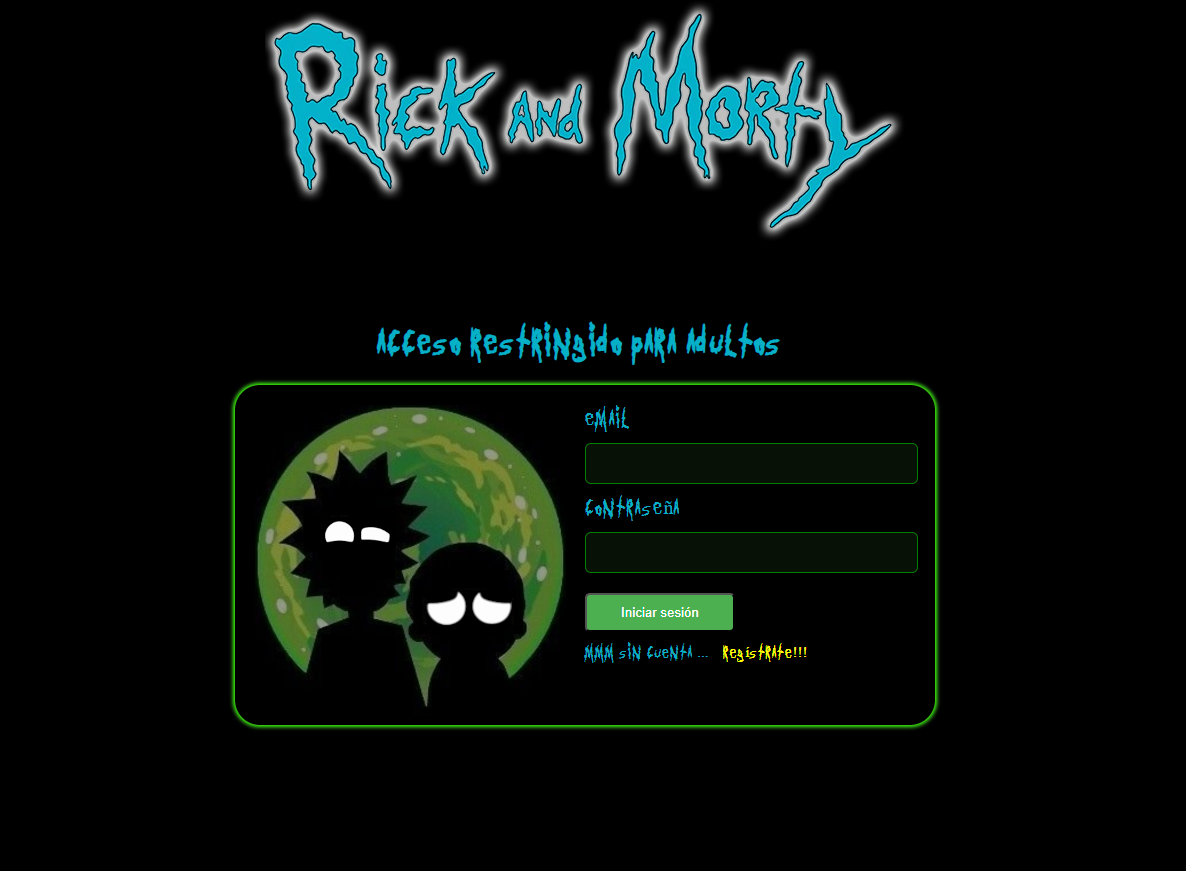
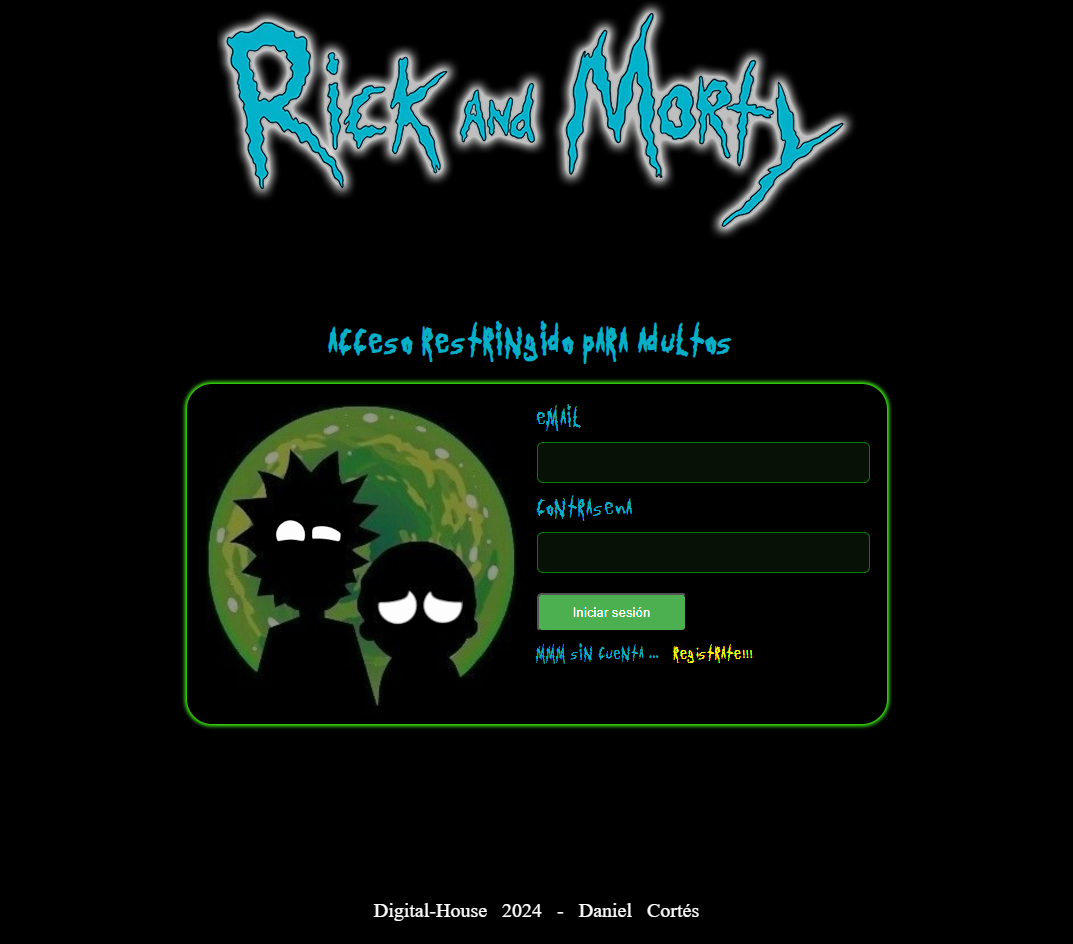
Login was done

diff --git a/src/pages/auth/FormRegister.jsx b/src/pages/auth/FormRegister.jsx
@@ -1,4 +1,4 @@
-import ButtonComponent from '../../components/button/ButtonComponent.jsx'
+import ButtonSubmitComponent from '../../components/button/ButtonComponent.jsx';
 import InputComponent from '../../components/input/InputComponent.jsx'
 import LabelComponent from '../../components/label/LabelComponent.jsx'
 import LabelLinkComponent from '../../components/label/LabelLinkComponent.jsx'
@@ -6,17 +6,24 @@ import {useAuthenticateContext} from "../../context/AuthenticateContext.jsx";
 
 const FormRegister = () => {
 
-  const {onClickLabel, onClickSaveRegister} = useAuthenticateContext();
+  const {onClickLabel, onClickSaveRegister, handleChange} = useAuthenticateContext();
 
   return (
     <div>
-      <form id="login-form">
-        <LabelComponent  label="Nombre" htmlFor="email" />
-        <InputComponent type="email" id="email" name="email" />
+      <form id="login-form" onSubmit={onClickSaveRegister}>
+        <LabelComponent  label="Nombre completo" htmlFor="email" />
+        <InputComponent type="text" id="fullName" name="fullName" onChange={handleChange} />
 
-        <LabelComponent label="Apellido" htmlFor="password" />
-        <InputComponent type="password" id="password" name="password"/>
-        <ButtonComponent label="Salvar" onClick={onClickSaveRegister} />
+        <LabelComponent label="Dirección" htmlFor="address" />
+        <InputComponent type="text" id="address" name="address" onChange={handleChange}/>
+
+        <LabelComponent label="Email" htmlFor="email" />
+        <InputComponent type="email" id="email" name="email" onChange={handleChange}/>
+
+        <LabelComponent label="Contraseña" htmlFor="password" />
+        <InputComponent type="password" id="password" name="password" onChange={handleChange}/>
+
+        <ButtonSubmitComponent label="Salvar" />
 
         <div>
           <LabelComponent label="Ahhhh sí tienes cuenta ... " fontSize="15px" />

diff --git a/src/context/RickAndMortyApiContext.jsx b/src/context/RickAndMortyApiContext.jsx
@@ -1,0 +1,65 @@
+import {createContext, useContext, useEffect, useReducer } from "react";
+import {getCharacters} from "../service/rickAndMortyApi.js";
+
+const initialState = {
+	character: [],
+	cart: [],
+};
+
+const apiReducer = (state, action) => {
+	switch (action.type) {
+		case "SET_CHARACTER":
+			return {
+				...state,
+				character: action.payload,
+			};
+		case "ADD_TO_CART":
+			return {
+				...state,
+				cart: [...state.cart, action.payload],
+			};
+		case "DELETE_TO_CART":
+			return {
+				...state,
+				cart: state.cart.filter((character) => character.id !== action.payload),
+			};
+	}
+};
+
+const ApiContext = createContext();
+
+export const ApiProvider = ({children}) => {
+	const [state, dispatch] = useReducer(apiReducer, initialState);
+
+	const addToCart = (character) => {
+		console.log("Agregar al carrito", character);
+		dispatch({ type: "ADD_TO_CART", payload: character });
+	};
+
+	const deleteToCart = (id) => {
+		console.log("Eliminar del carrito", id);
+		dispatch({type: "DELETE_TO_CART", payload: id});
+	};
+
+	useEffect(() => {
+		getCharacters().then((data) => {
+			dispatch({type: "SET_CHARACTER", payload: data});
+		});
+	}, []);
+
+	return (
+		<ApiContext.Provider
+			value={{
+				cart: state.cart,
+				addToCart,
+				deleteToCart,
+				characters: state.character,
+			}}
+		>
+			{children}
+		</ApiContext.Provider>
+	);
+};
+
+// eslint-disable-next-line react-refresh/only-export-components
+export const useApi = () => useContext(ApiContext);

diff --git a/src/context/AuthenticateContext.jsx b/src/context/AuthenticateContext.jsx
@@ -1,9 +1,17 @@
 import {createContext, useContext, useState} from "react";
+import {saveUser, userEmailExist } from "../service/db.js";
 
 const AuthenticateContext = createContext();
 
 export const AuthenticateProvider = ({children}) => {
   const [isAuthenticate, setIsAuthenticate] = useState(true);
+  const [loginData, setLoginData] = useState({
+    fullName: "",
+    address: "",
+    email: "",
+    password: "",
+    token: "",
+  });
 
   const onClickLabel = (e) => {
     e.preventDefault();
@@ -12,18 +20,33 @@ export const AuthenticateProvider = ({children}) => {
   
   const onClickSaveRegister = (e) => {
     e.preventDefault();
-    setIsAuthenticate(!isAuthenticate);    
+    if(userEmailExist(loginData.email)) {
+      console.log("Error, usuario ya existe");
+      alert("Usuario existente, regresa al login y autentícate!");
+    } else {  
+      saveUser(loginData);
+      setIsAuthenticate(!isAuthenticate);
+    }
   }
+
+  const handleChange = (event) => {
+		setLoginData({
+			...loginData,
+			[event.target.name]: event.target.value,
+		});
+	};
 
   return (
     <AuthenticateContext.Provider value={{
       isAuthenticate,
       onClickLabel,
-      onClickSaveRegister
+      onClickSaveRegister,
+      handleChange
     }}>
       {children}
     </AuthenticateContext.Provider>
   );
 }
 
+// eslint-disable-next-line react-refresh/only-export-components
 export const useAuthenticateContext = () => useContext(AuthenticateContext);

diff --git a/src/pages/auth/Authenticate.module.css b/src/pages/auth/Authenticate.module.css
@@ -25,14 +25,20 @@ body {
 
 .containerForms {
   width: 700px;
-  height: 300px;
   border-radius: 25px;
   display: flex;
   flex-direction: row;
-  box-shadow: 0 0 4px 2px rgb(60, 255, 0) !important;
   padding: 20px 0px 20px;
+  box-shadow: 0 0 4px 2px rgb(60, 255, 0) !important;
 }
 
+.autenticationForm {
+  height: 300px;
+}
+
+.formRegister {
+  height: 450px;
+}
 
 .title {
   display: flex;
@@ -44,9 +50,7 @@ body {
 .form {
   display: flex;
   flex-direction: column;
-  /* align-items: center; */
   width: 50%;
-  /* border: 1px solid yellow; */
 }
 
 .image {
@@ -54,12 +58,29 @@ body {
   flex-direction: column;
   align-items: center;
   width: 50%;
-  /* border: 1px solid blue; */
 }
 
 .logo {
   display: block;
   margin-left: auto;
   margin-right: auto;
-  /* width: 50%; */
+}
+
+.footer {
+  display: flex;
+  align-items: center;
+  justify-content: center;
+
+  height: 80px;
+  text-transform: capitalize;
+  font-size: 20px;
+  word-spacing: 10px; 
+
+  position: fixed;
+  left: 0;
+  bottom: 0;
+  width: 100%;
+  text-align: center;
+
+  color: white;
 }

diff --git a/src/service/db.js b/src/service/db.js
@@ -1,0 +1,33 @@
+export const getUsers = () => {
+  const db = localStorage.getItem("db");
+
+  return (db) ? Object.values(JSON.parse(db)) : [];
+}
+
+export const getUserByEmail = (email) => {
+  const users = getUsers();
+  return users.filter((user) => user.email === email);
+}
+
+export const userEmailExist = (email) => {
+  return getUserByEmail(email).length > 0 ? true : false;
+}
+
+export const saveUser = (user) => {
+  let users = getUsers();
+
+  if(userEmailExist(user.email)) {
+    console.log("mail encontrado")
+    return false;
+  }
+  
+  console.log("push")
+  users.push(user);
+
+  localStorage.setItem("db", JSON.stringify(users));
+  return true;
+}
+
+// export const addToFavorites = (card) = {
+
+// }

diff --git a/src/pages/auth/Authenticate.jsx b/src/pages/auth/Authenticate.jsx
@@ -23,7 +23,7 @@ const Authenticate = () => {
               />
             </h1>
           </div>
-          <div className={styles.containerForms}>
+          <div className={styles.containerForms  + " " + (isAuthenticate ? styles.autenticationForm : styles.formRegister)}>
             <div className={styles.image}>
               {isAuthenticate ? (
                 <>
@@ -41,6 +41,11 @@ const Authenticate = () => {
           </div>
         </div>
       </main>
+      <footer>
+        <div className={styles.footer}>
+          digital-house {(new Date().getFullYear())} - Daniel Cortés
+        </div>
+      </footer>
     </>
   );
 };

diff --git a/src/pages/home/Index.jsx b/src/pages/home/Index.jsx
@@ -1,0 +1,19 @@
+import { BrowserRouter, Route, Routes } from "react-router";
+import {ApiProvider} from "../../context/RickAndMortyApiContext.jsx";
+import Favorites from "./favorites/Favorites.jsx";
+
+const Index = () => {
+
+  return (
+    <ApiProvider>
+      <BrowserRouter>
+        <Routes>
+        <Route path="/" element={<Home />} />
+					<Route path="/favorites" element={<Favorites />} />
+					<Route path="*" element={<h1>Not Found</h1>} />
+        </Routes>
+      </BrowserRouter>
+    </ApiProvider>
+  )
+}
+export default Index

diff --git a/src/components/input/InputComponent.jsx b/src/components/input/InputComponent.jsx
@@ -1,15 +1,17 @@
 import styles from "./InputComponent.module.css";
 
-const InputComponent = ({ type, id, name, value, placeholder, onChange, isRequired }) => {
+const InputComponent = ({ type, id, name, value, placeholder, onChange }) => {
   return (
     <>
-      <input className={styles.input}
+      <input
+        className={styles.input}
         type={type}
         id={id}
         name={name}
         value={value}
         placeholder={placeholder}
         onChange={onChange}
+        required
       />
     </>
   );

diff --git a/src/pages/auth/FormAuthenticate.jsx b/src/pages/auth/FormAuthenticate.jsx
@@ -15,7 +15,7 @@ const FormAuthenticate = () => {
         <InputComponent type="email" id="email" name="email" />
 
         <LabelComponent label="Contraseña" htmlFor="password" />
-        <InputComponent type="password" id="password" name="password"/>
+        <InputComponent type="password" id="password" name="password" />
         <ButtonSubmitComponent label="Iniciar sesión" />
         <div>
           <LabelComponent label="Mmm sin cuenta ... " fontSize="15px" />

diff --git a/src/components/label/LabelComponent.module.css b/src/components/label/LabelComponent.module.css
@@ -1,6 +1,9 @@
 @font-face {
   font-family: 'rickAndMorty';
-  src: url('../../assets/font/get_schwifty.ttf') format('truetype');
+  /* src: url('../../assets/font/get_schwifty.ttf') format('truetype'); */
+  src: url('../../assets/font/WubbaLubbaDubDub.ttf') format('truetype');
+
+/* } */
 }
 
 .label {

diff --git a/src/service/rickAndMortyApi.js b/src/service/rickAndMortyApi.js
@@ -1,0 +1,10 @@
+export const getCharacters = async () => {
+  try {
+		const endPoint = "https://rickandmortyapi.com/api/character";
+		const response = await fetch(endPoint);
+		const data = await response.json();
+		return data.results;
+  } catch (error) {
+    console.log(error);
+  }
+};

diff --git a/src/pages/home/favorites/Favorites.jsx b/src/pages/home/favorites/Favorites.jsx
@@ -1,0 +1,6 @@
+const Favorites = () => {
+  return (
+    <div>Favorites</div>
+  )
+}
+export default Favorites
